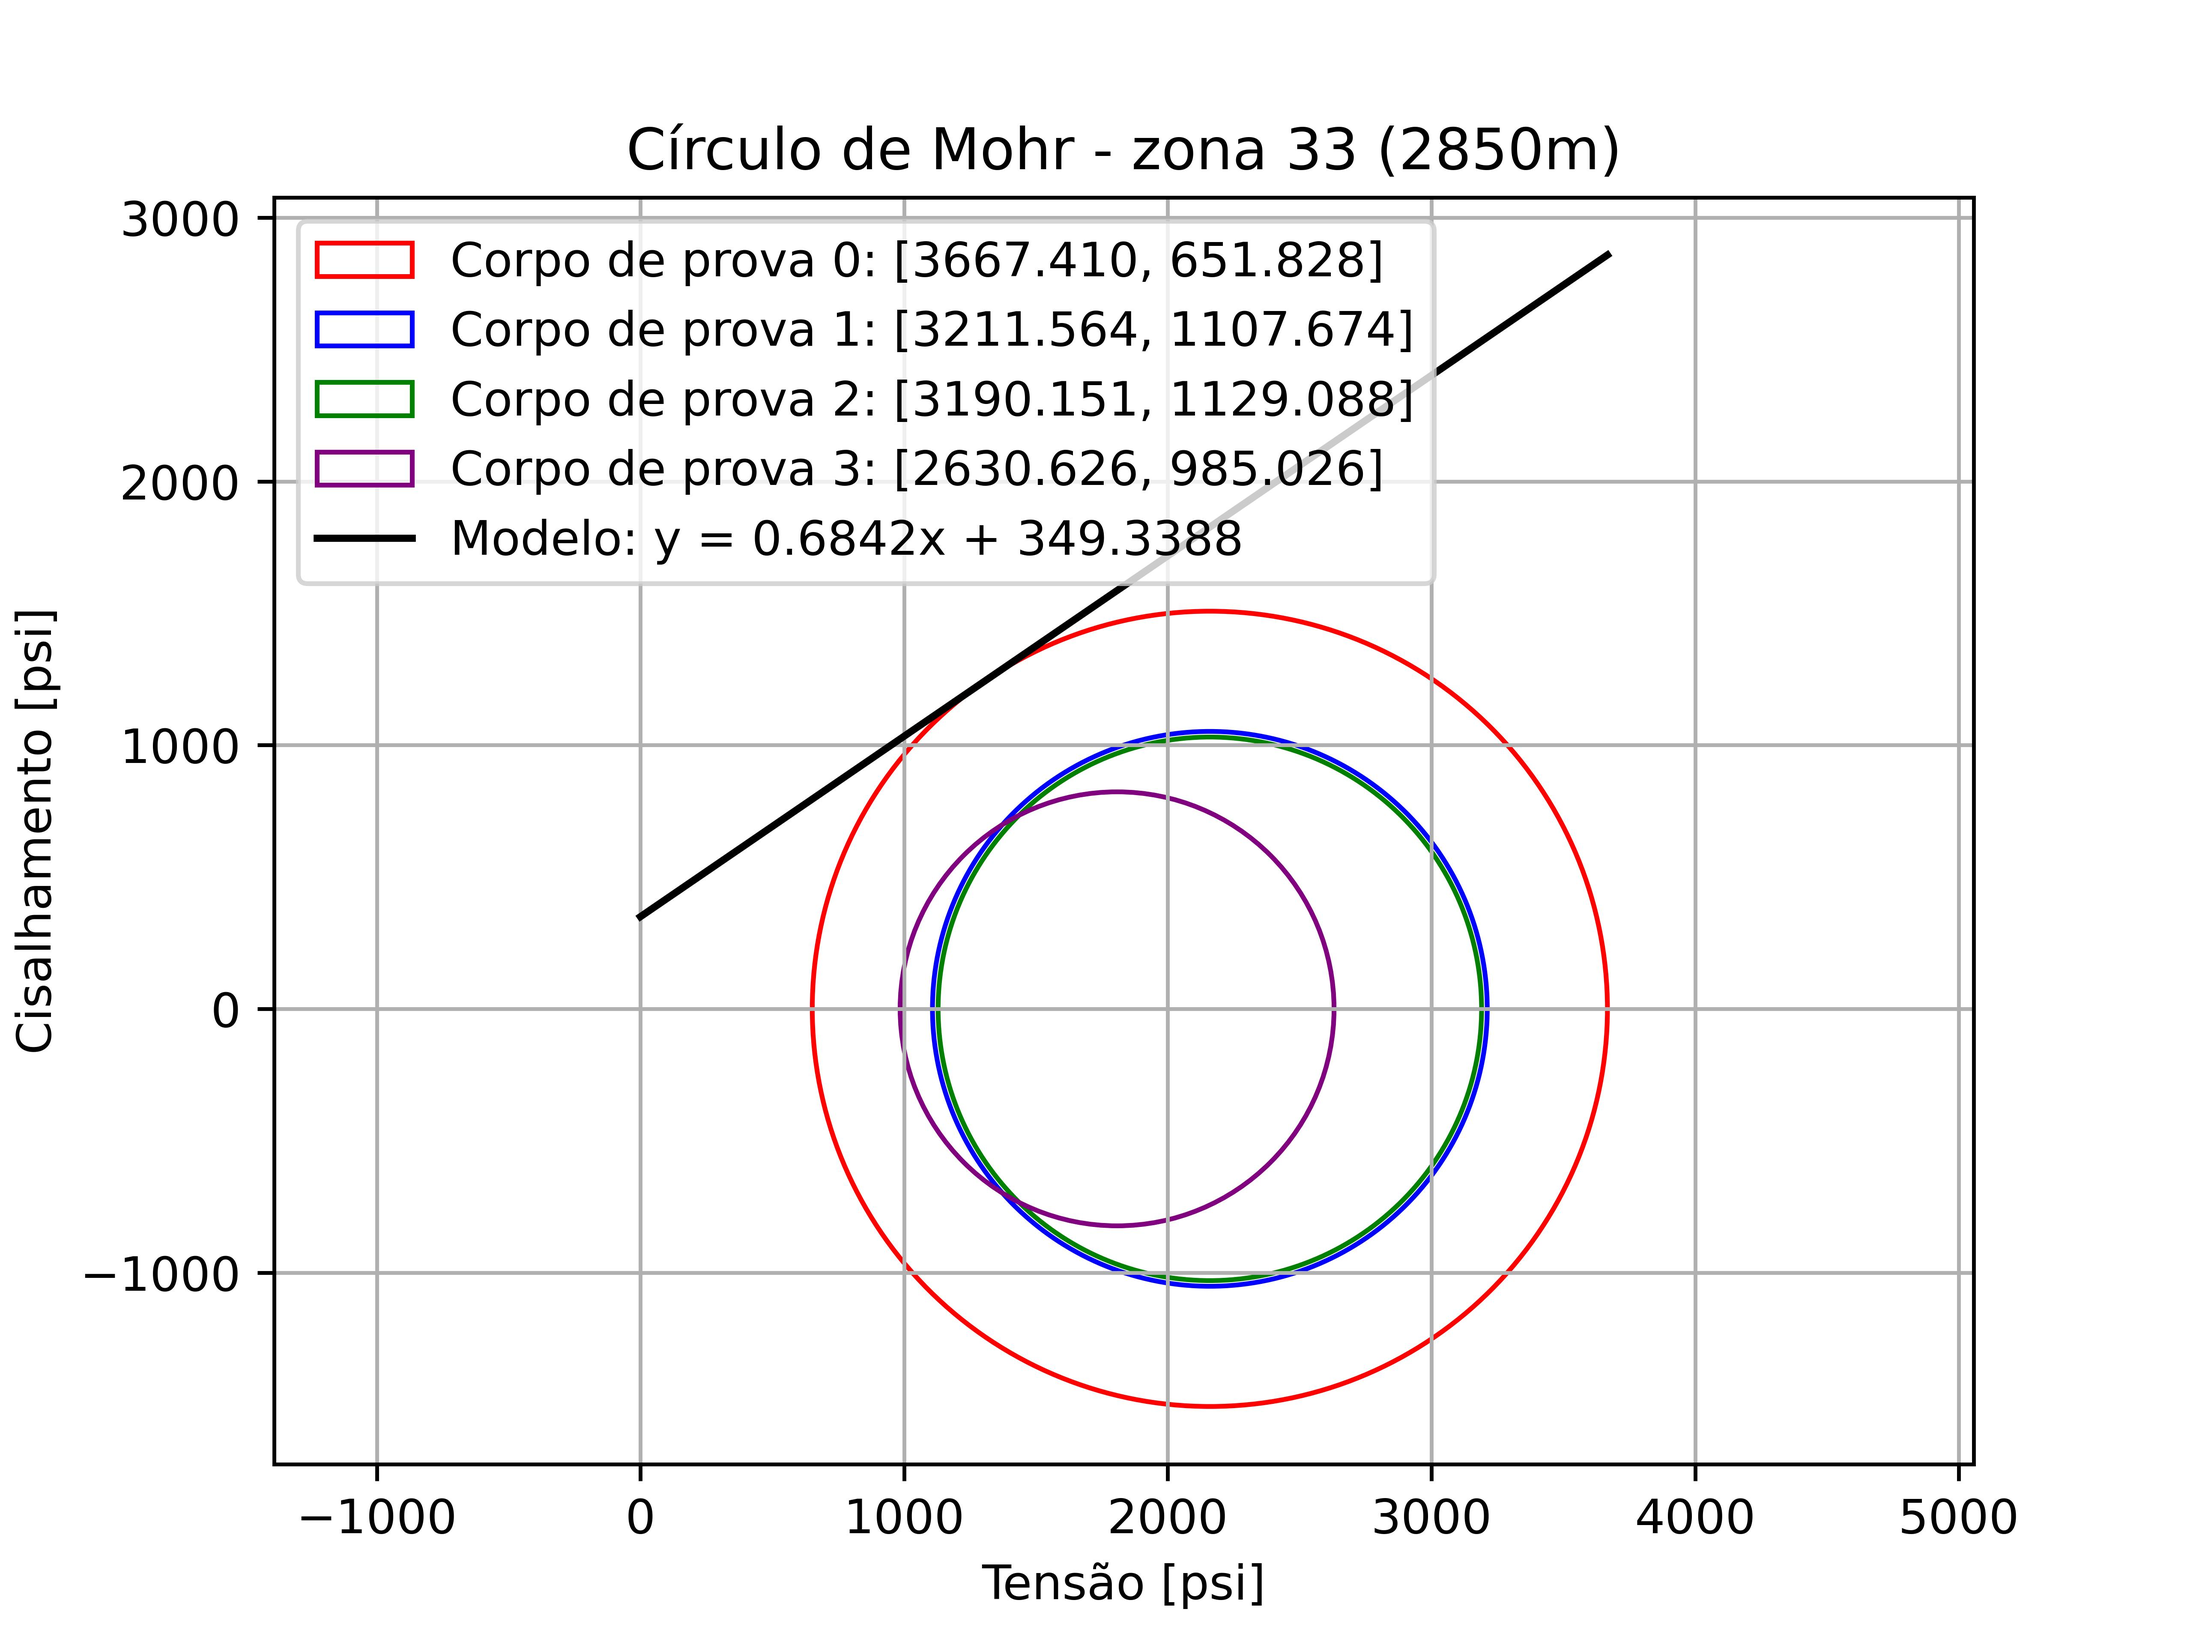
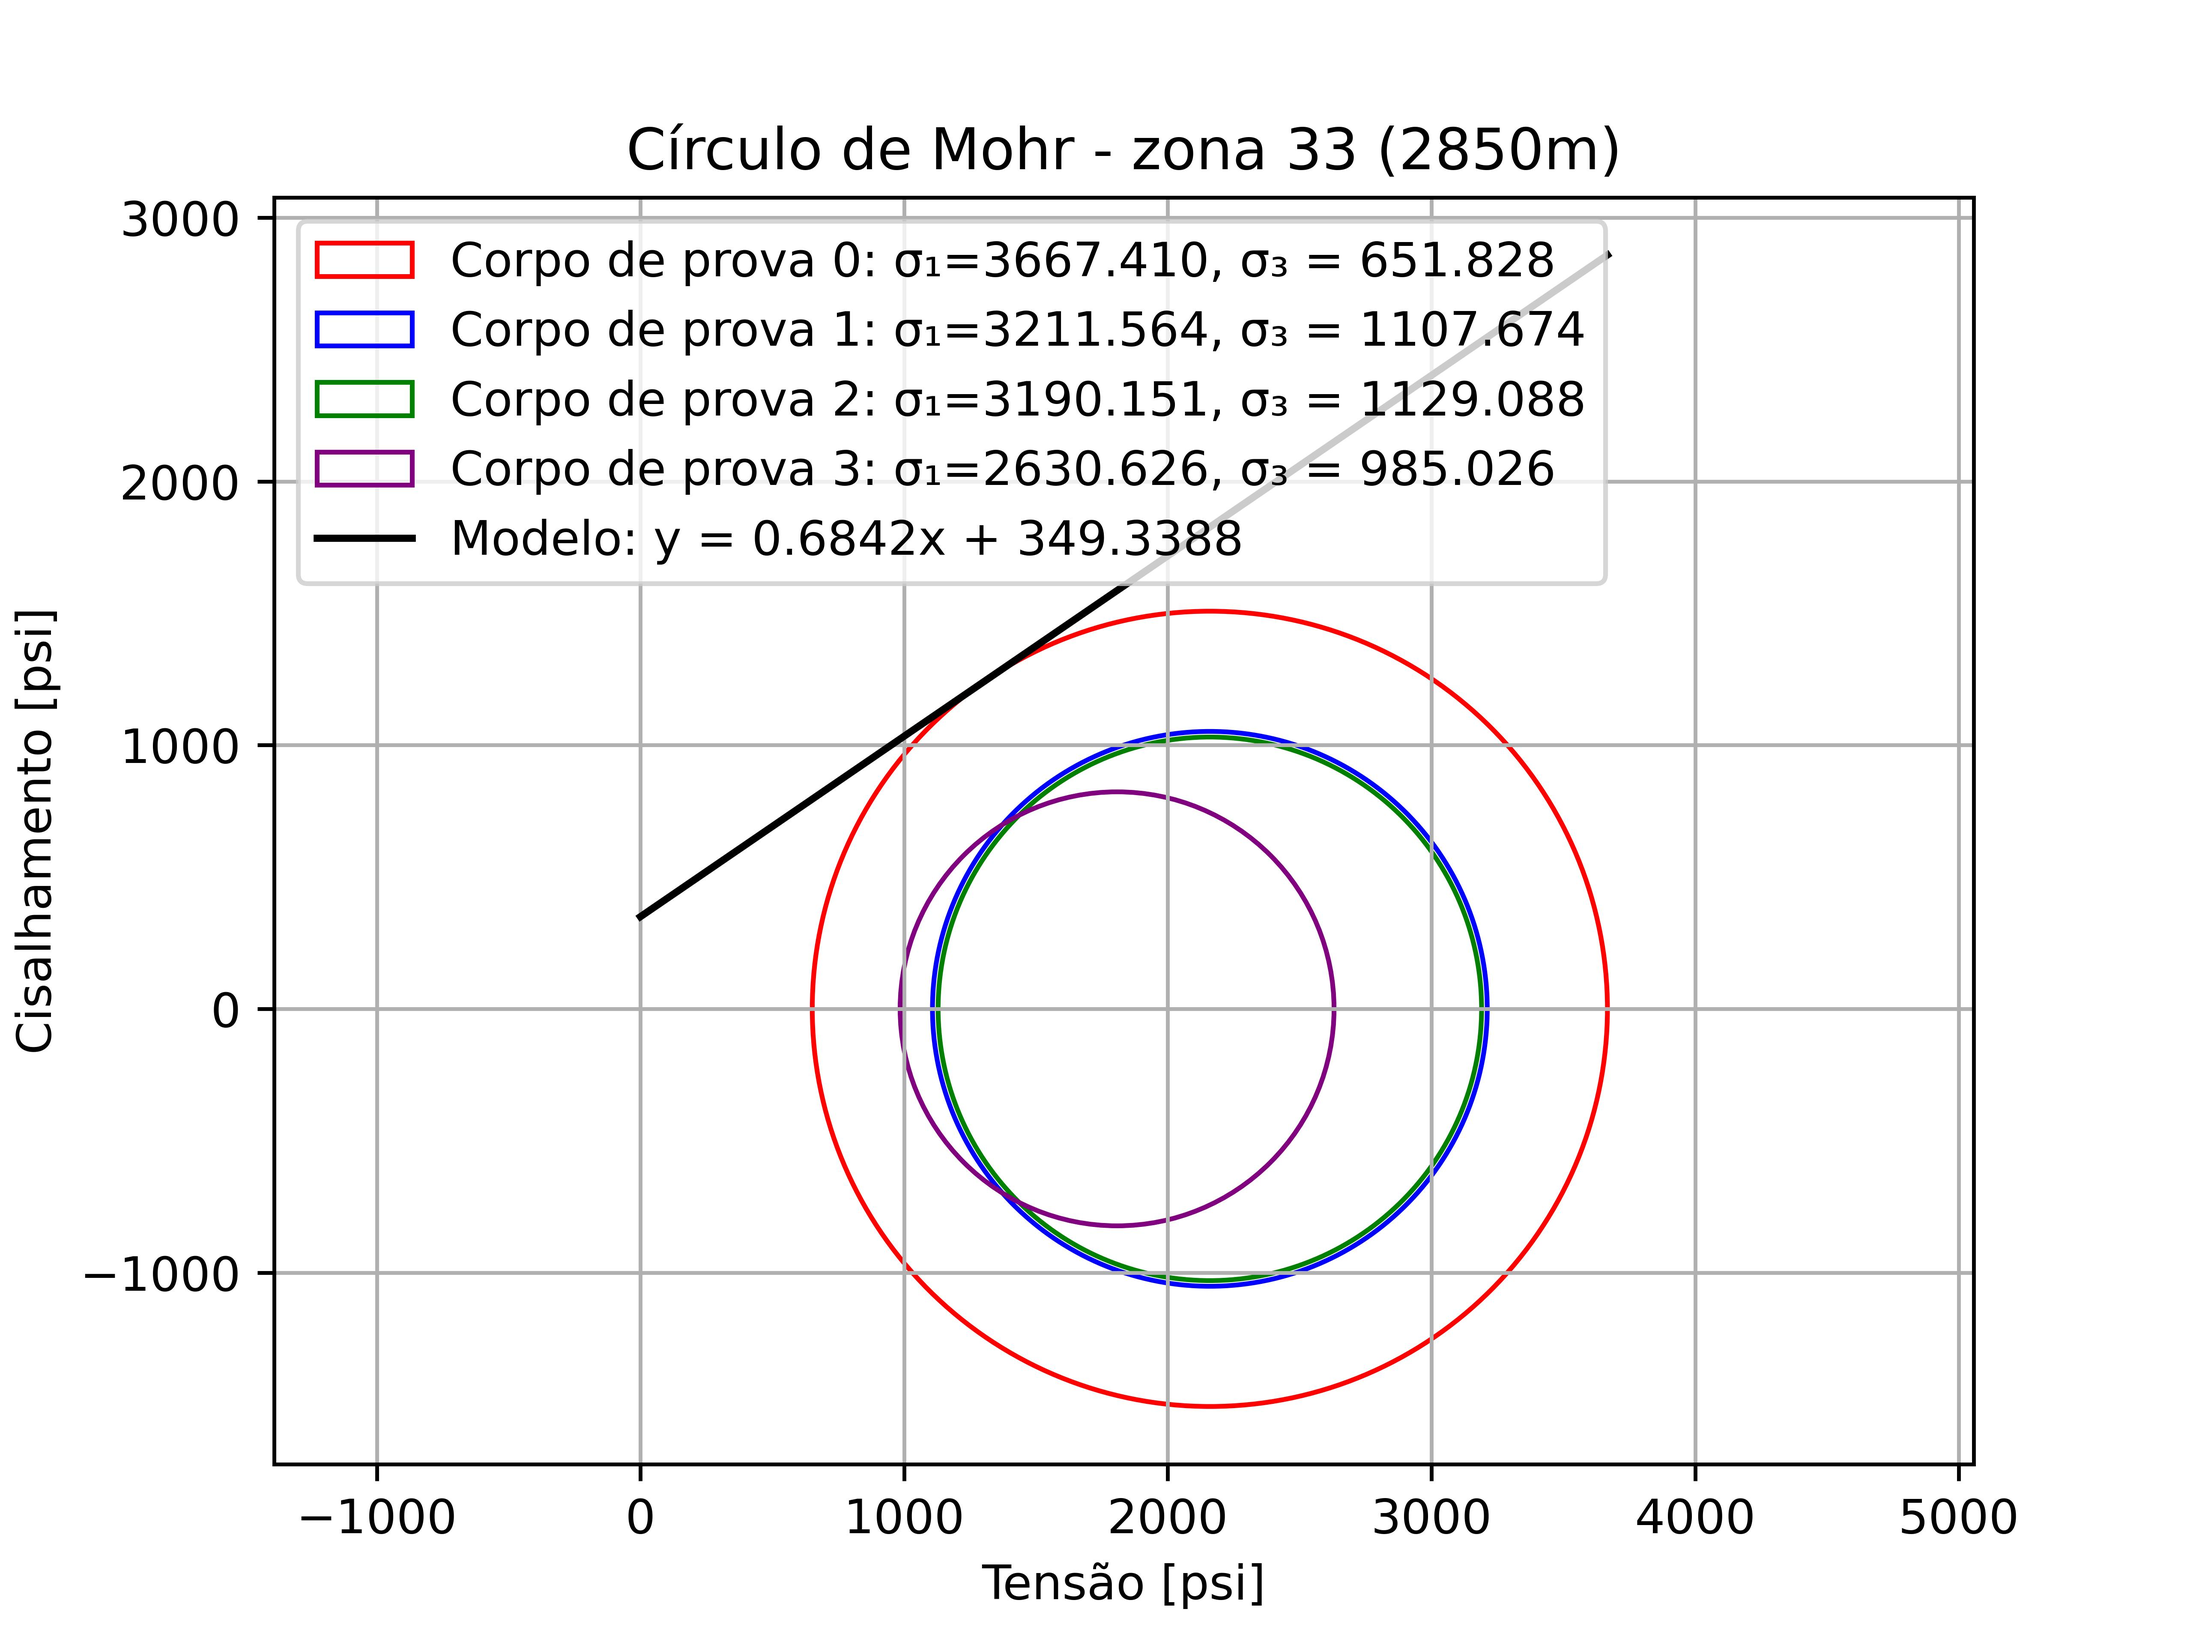
4.01 Final

Changed region(s): [[0.4062, 0.125, 0.75, 0.3125]]

diff --git a/geomec_classes.py b/geomec_classes.py
@@ -1092,7 +1092,7 @@ class MohrCircle:
             x0 = radius + self.sigma3[i]
             y0 = 0
             circle = plt.Circle((x0, y0), radius, color=color[i], fill=False,
-                                label=f'Corpo de prova {i}: [{self.sigma1[i]:.3f}, {self.sigma3[i]:.3f}]')
+                                label=f'Corpo de prova {i}: σ₁={self.sigma1[i]:.3f}, σ₃ = {self.sigma3[i]:.3f}')
             ax.add_patch(circle)
             rd.append(abs(radius))
         ax.grid()
